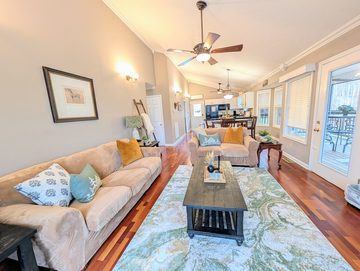
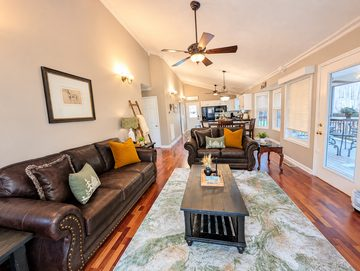
Replace living room photo with new leather sofas; update to 38 reviews
New living room photo (same angle) on the homepage and both guide pages,
alt text updated from tan to brown leather sofas. Airbnb review count
36 -> 38, rating stays 4.97. Sitemap lastmod updated for the three pages.

Claude-Session: https://claude.ai/code/session_016aAKYpkE4gCqzoMDJe35kG

diff --git a/index.html b/index.html
@@ -306,7 +306,7 @@
         </picture>
         <picture>
           <source type="image/webp" srcset="images/property/living-360.webp 360w, images/property/living-704.webp 704w" sizes="(max-width:780px) 46vw, (max-width:1100px) 24vw, 260px">
-          <img src="images/property/living-360.jpg" srcset="images/property/living-360.jpg 360w, images/property/living-704.jpg 704w" sizes="(max-width:780px) 46vw, (max-width:1100px) 24vw, 260px" data-large="images/property/living-lg.jpg" width="704" height="530" alt="Open-concept living room with a vaulted ceiling, ceiling fans, two tan sofas, and hardwood floors leading to the dining table and kitchen, with a door to the back porch" loading="lazy">
+          <img src="images/property/living-360.jpg" srcset="images/property/living-360.jpg 360w, images/property/living-704.jpg 704w" sizes="(max-width:780px) 46vw, (max-width:1100px) 24vw, 260px" data-large="images/property/living-lg.jpg" width="704" height="530" alt="Open-concept living room with a vaulted ceiling, ceiling fans, two brown leather sofas, and hardwood floors leading to the dining table and kitchen, with a door to the back porch" loading="lazy">
         </picture>
         <picture>
           <source type="image/webp" srcset="images/property/porch-360.webp 360w, images/property/porch-704.webp 704w" sizes="(max-width:780px) 46vw, (max-width:1100px) 24vw, 260px">
@@ -322,7 +322,7 @@
         </picture>
       </div>
       <div>
-        <p class="superhost">Airbnb Superhost · Guest Favorite · Top 5% of homes · <a href="https://www.airbnb.com/rooms/1553958627700606401" target="_blank" rel="noopener">See our 36 reviews on Airbnb →</a></p>
+        <p class="superhost">Airbnb Superhost · Guest Favorite · Top 5% of homes · <a href="https://www.airbnb.com/rooms/1553958627700606401" target="_blank" rel="noopener">See our 38 reviews on Airbnb →</a></p>
         <p><b>New owners, same beloved cottage</b> — with 150+ stays behind it. The Smoky Nest is a bright, fully stocked getaway with <b>two king suites, each with its own private ensuite bath</b>, in a quiet setting. Best of all, you're just 3 minutes to the Parkway and minutes from the area's top attractions.</p>
         <div class="stats">
           <div class="stat"><b>2</b><span>King Suites</span></div>

diff --git a/where-to-stay-pigeon-forge-two-couples.html b/where-to-stay-pigeon-forge-two-couples.html
@@ -373,7 +373,7 @@
         <h2>Our pick (yes, we're biased)</h2>
         <p><a href="/">The Smoky Nest</a> was set up with exactly this trip in mind: <b>two king suites, each with its own full bathroom</b>, an open living and dining area for four, a screened back porch, driveway parking for two cars, and easy, flat-road access about three minutes from the Parkway. Read more about why it works as a <a href="/pigeon-forge-2-bedroom-cabin-alternative.html">2-bedroom cabin alternative for families and couples</a>.</p>
         <div class="photo-pair">
-          <picture><source type="image/webp" srcset="/images/property/living-360.webp 360w, /images/property/living-704.webp 704w" sizes="(max-width:600px) 92vw, 400px"><img src="/images/property/living-704.jpg" width="704" height="530" alt="Open living room at The Smoky Nest with a vaulted ceiling, two tan sofas, and hardwood floors leading to the dining table and kitchen" loading="lazy"></picture>
+          <picture><source type="image/webp" srcset="/images/property/living-360.webp 360w, /images/property/living-704.webp 704w" sizes="(max-width:600px) 92vw, 400px"><img src="/images/property/living-704.jpg" width="704" height="530" alt="Open living room at The Smoky Nest with a vaulted ceiling, two brown leather sofas, and hardwood floors leading to the dining table and kitchen" loading="lazy"></picture>
           <picture><source type="image/webp" srcset="/images/property/king-upholstered-360.webp 360w, /images/property/king-upholstered-704.webp 704w" sizes="(max-width:600px) 92vw, 400px"><img src="/images/property/king-upholstered-704.jpg" width="704" height="530" alt="Second king suite at The Smoky Nest: king bed with a cream upholstered headboard and footboard, matching lamps, and a doorway to its own bathroom" loading="lazy"></picture>
         </div>
 <div class="card" style="max-width:760px;margin:30px 0">

diff --git a/pigeon-forge-2-bedroom-cabin-alternative.html b/pigeon-forge-2-bedroom-cabin-alternative.html
@@ -379,7 +379,7 @@
         <h3>Room to slow down</h3>
         <p>Cook a real breakfast in the fully stocked kitchen (Keurig, air fryer, Instant Pot, blender), light the indoor fireplace on a cool evening, or take coffee to the screened back porch. A full-size washer and dryer, fast Wi-Fi, and Roku TVs cover the practical side of a longer stay.</p>
         <div class="photo-pair">
-          <picture><source type="image/webp" srcset="/images/property/living-360.webp 360w, /images/property/living-704.webp 704w" sizes="(max-width:600px) 92vw, 400px"><img src="/images/property/living-704.jpg" width="704" height="530" alt="Open living room at The Smoky Nest with a vaulted ceiling, two tan sofas, and hardwood floors leading to the dining table and kitchen" loading="lazy"></picture>
+          <picture><source type="image/webp" srcset="/images/property/living-360.webp 360w, /images/property/living-704.webp 704w" sizes="(max-width:600px) 92vw, 400px"><img src="/images/property/living-704.jpg" width="704" height="530" alt="Open living room at The Smoky Nest with a vaulted ceiling, two brown leather sofas, and hardwood floors leading to the dining table and kitchen" loading="lazy"></picture>
           <picture><source type="image/webp" srcset="/images/property/porch-360.webp 360w, /images/property/porch-704.webp 704w" sizes="(max-width:600px) 92vw, 400px"><img src="/images/property/porch-704.jpg" width="704" height="935" alt="Screened back porch at The Smoky Nest with a glass-top table, four tall patio chairs, and ceiling fans, overlooking trees" loading="lazy"></picture>
         </div>
 <div class="card" style="max-width:760px;margin:30px 0">
